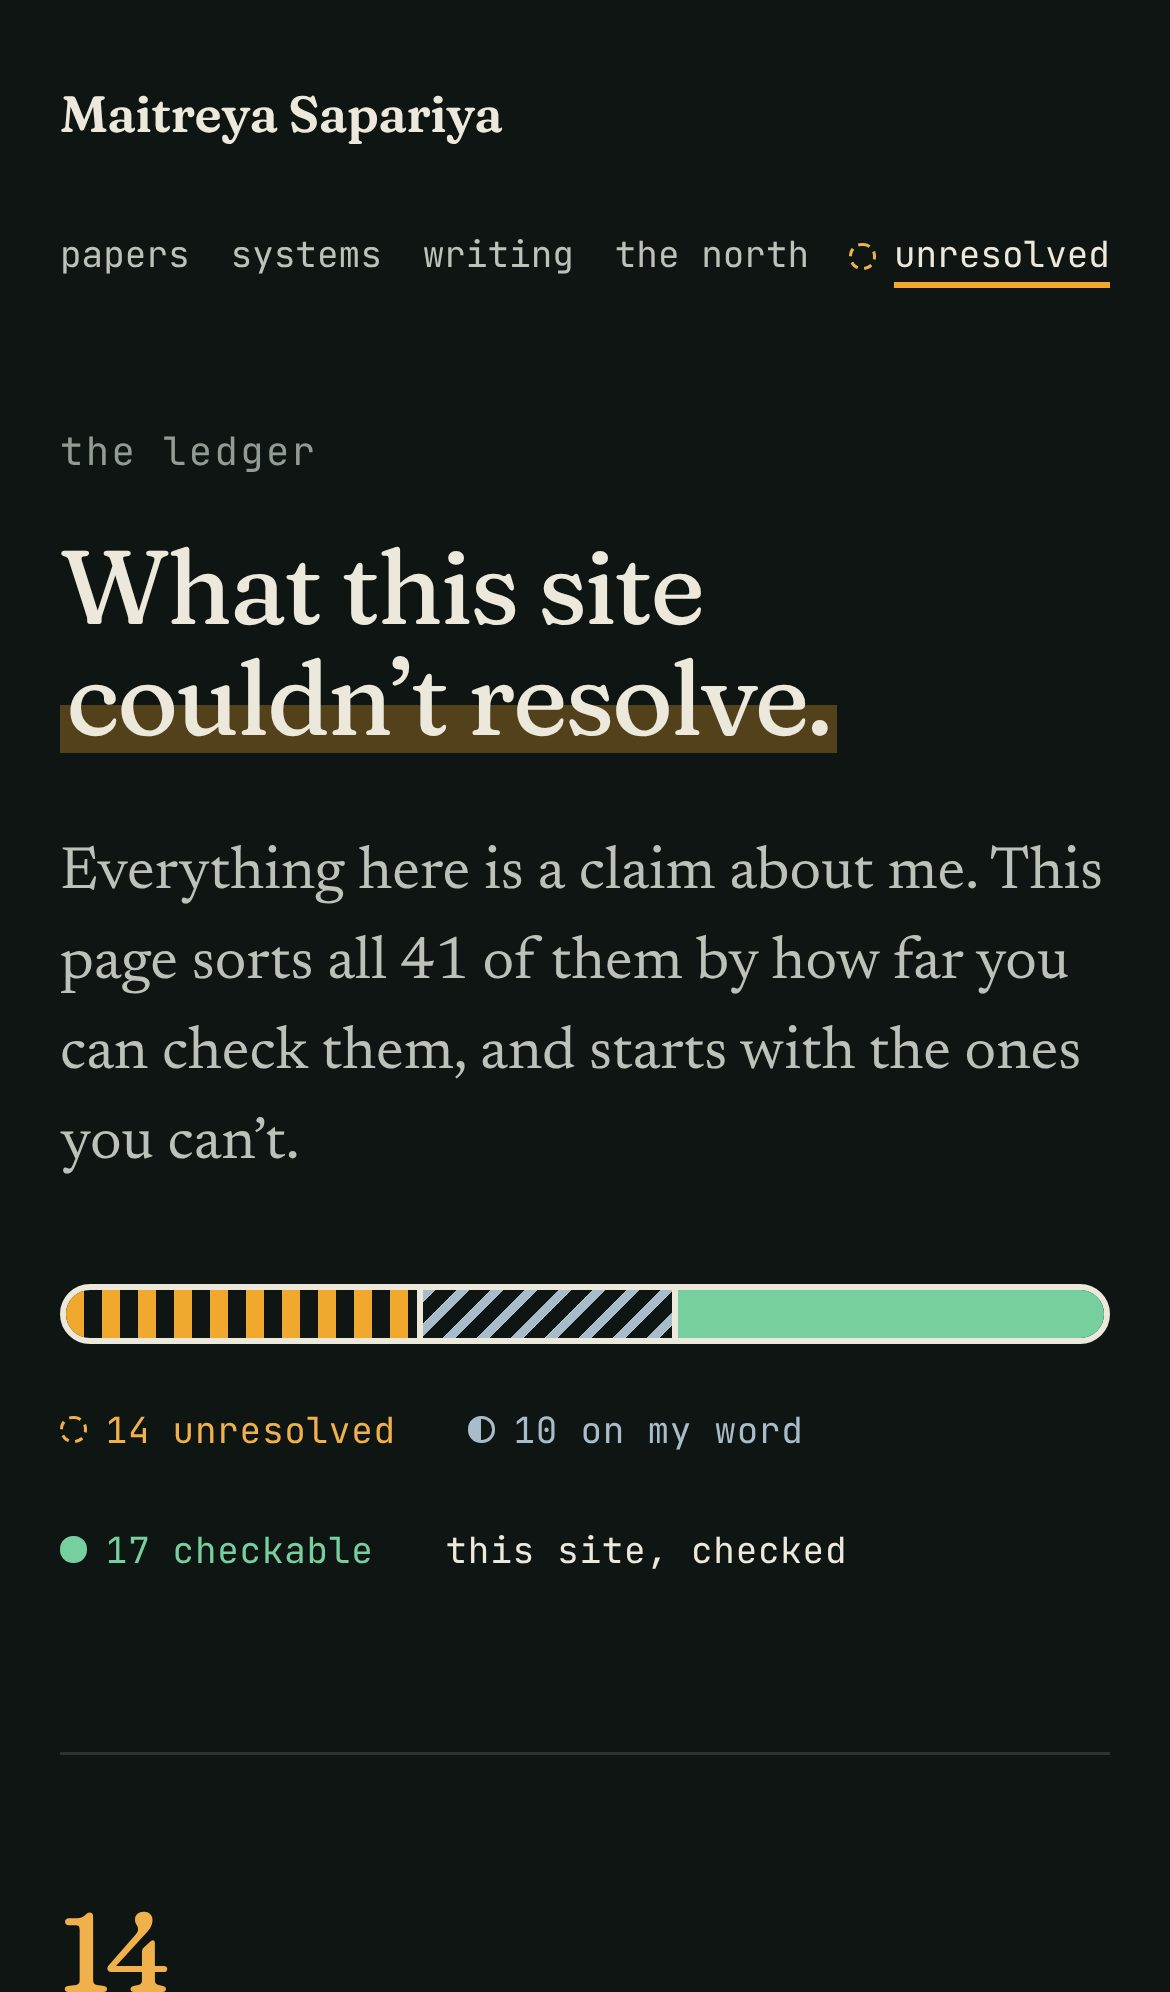
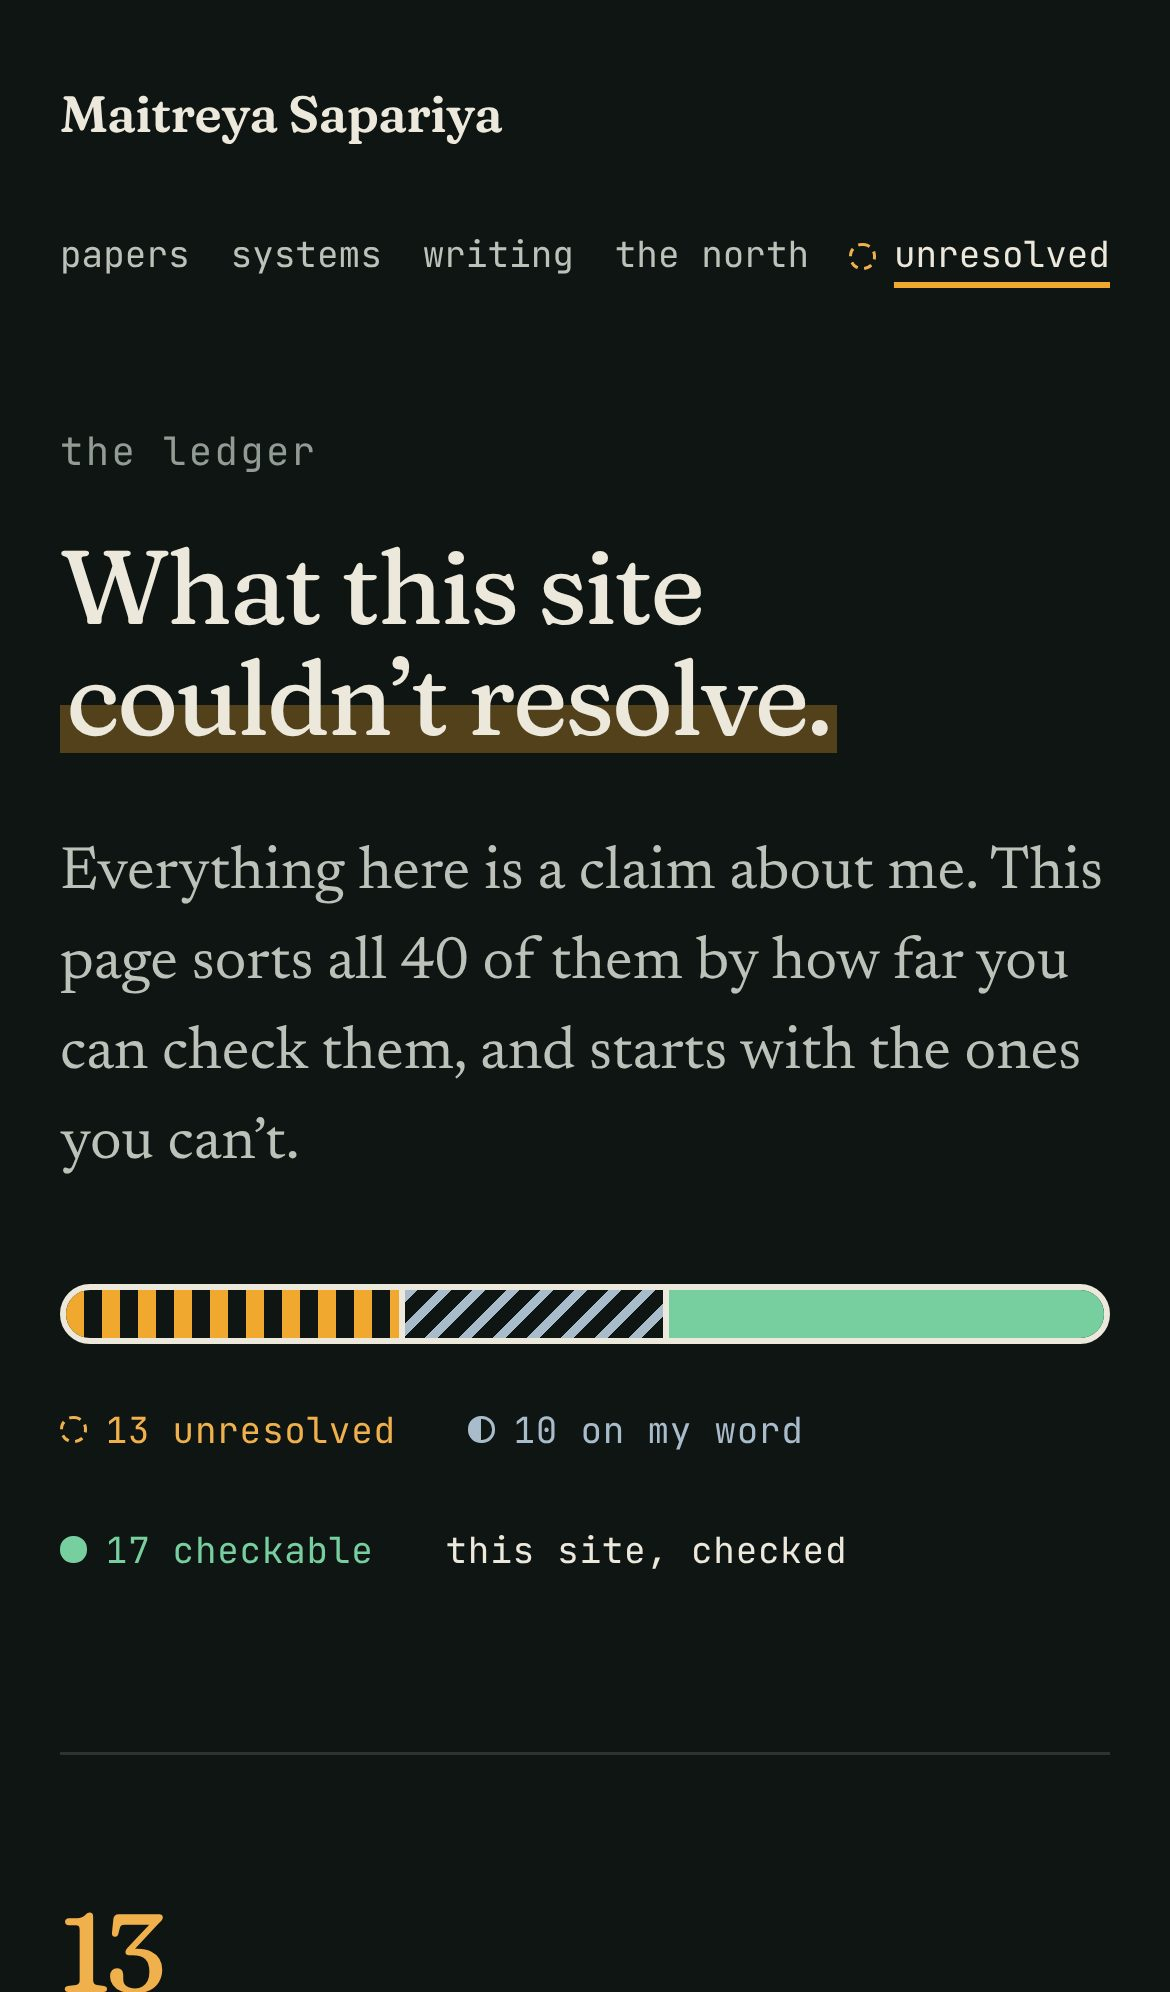
fix(a11y): map markers are not tap targets on a phone; the stop index is
Oslo and Sandefjord, and Helsinki and Tallinn, sit closer together than a
fingertip at phone width. Below 40rem the markers no longer take taps and
the hint points at the stop index, which links to the same places in
full-width rows. Lighthouse accessibility on /travel goes from 96 to 100.
The item leaves the unresolved list; notes and screenshots follow.

Claude-Session: https://claude.ai/code/session_01Stmo8Lh2Jpa6mqPBLQ4AAC

Changed region(s): [[0.3385, 0.6225, 0.5846, 0.6847], [0.0923, 0.9649, 0.1538, 1.0], [0.3692, 0.4669, 0.4, 0.498]]

diff --git a/src/ledger.ts b/src/ledger.ts
@@ -76,14 +76,6 @@ const siteItems = (): LedgerItem[] => {
       group: 'site',
     },
     {
-      claim: 'Tap targets on the map, on a phone.',
-      state: 'open',
-      note: 'At phone width some stops on the map sit closer together than a 24 pixel tap target allows (Oslo and Sandefjord, Helsinki and Tallinn). The stop index beside the map and the field log under it reach every stop.',
-      source: { label: 'The north', href: '/travel' },
-      links: [],
-      group: 'site',
-    },
-    {
       claim: 'The margin the coin-flip demo uses.',
       state: 'open',
       note: 'The 0.487 against 0.499 case is real. The margin drawn in the demo is a stand-in so the slider has somewhere to go; the paper fixes its own.',

diff --git a/src/styles/travel.css b/src/styles/travel.css
@@ -769,3 +769,25 @@
     to { opacity: 1; }
   }
 }
+
+/* On a phone the stops sit closer together than a fingertip: Oslo and
+   Sandefjord, Helsinki and Tallinn. The markers stop being tap targets
+   there. The stop index under the map, one full-width row per stop, links
+   to the same places, and the keyboard still reaches every marker. */
+.atlas-hint-touch {
+  display: none;
+}
+
+@media (max-width: 40rem) {
+  .plate-stops .stop {
+    pointer-events: none;
+  }
+
+  .atlas-hint-pointer {
+    display: none;
+  }
+
+  .atlas-hint-touch {
+    display: block;
+  }
+}

diff --git a/FABLE_NOTES.md b/FABLE_NOTES.md
@@ -300,9 +300,11 @@ Two things I assumed, which you should check:
 - **Ten type errors on `main`**, all in the travel map's inline script.
   `astro check` now reports none.
 - **Tap targets on the map at phone width.** Oslo and Sandefjord, and
-  Helsinki and Tallinn, sit closer than 24 px. This is on `main` too. I did
-  not fix it. It is listed on `/unresolved`, and Lighthouse scores `/travel`
-  96 for accessibility because of it.
+  Helsinki and Tallinn, sit closer than a fingertip. This is on `main` too,
+  and Lighthouse scored `/travel` 96 for accessibility because of it. On a
+  phone the markers are no longer tap targets; the stop index under the map
+  (one full-width row per stop) links to the same places. `/travel` now
+  scores 100.
 
 ---
 
@@ -313,7 +315,7 @@ Two things I assumed, which you should check:
 | `npm run build` | 19 pages |
 | `npx astro check` | 0 errors (needs `@astrojs/check` and `typescript`, which I installed without saving) |
 | `npm run audit` (axe-core 4.14.1) | 18 pages × light and dark × 1280 px and 390 px: **0 violations** |
-| Scripted Tab pass | reached 492 of 492 links and controls |
+| Scripted Tab pass | reached 491 of 491 links and controls |
 | `npm run contrast` | every text colour ≥ 4.5:1 on both papers, both themes |
 | Demo, by keyboard | amber up to 0.098, red from 0.100; Home, End and the three buttons work |
 | Scripts off | slider hidden, real case shown, theme switch hidden |
@@ -326,7 +328,7 @@ the same way to compare:
 | --- | --- | --- | --- | --- |
 | `/` | 98 → 97 | 100 | 100 | 100 |
 | `/research/three-voices` | 100 → 99 | 100 | 100 | 100 |
-| `/travel` | 97 → 97 | 96 (same as main) | 100 | 100 |
+| `/travel` | 97 → 96 | 96 → 100 | 100 | 100 |
 | `/unresolved` | new: 100 | 100 | 100 | 100 |
 
 My first pass scored 82 on the home page. A single rupee sign was pulling in
@@ -357,8 +359,8 @@ a second 103 KB font file, and the stylesheet was a blocking request.
    It is careful (pages are always fetched fresh when you are online), but a
    service worker is the one piece that outlives a deploy. The comment at
    the top of `src/pages/sw.js.ts` says how to switch it off.
-4. **The count on the home page.** "14 are unresolved" is the hook. Three of
-   the fourteen are about the site itself, not about you. If that feels like
+4. **The count on the home page.** "13 are unresolved" is the hook. Two of
+   the thirteen are about the site itself, not about you. If that feels like
    padding, move them out of `siteItems()` in `src/ledger.ts`.
 5. **`CLAUDE.md`.** I added a six-line note at the top and changed nothing
    else. If you keep this branch, the design law, the checklist and the
@@ -382,8 +384,6 @@ a second 103 KB font file, and the stylesheet was a blocking request.
   kind of thing a professor checks.
 - **Give each claim a date.** "As of 12 November" beside every status, from
   git history, so staleness is visible per line.
-- **Fix the map's tap targets** at phone width, probably by turning close
-  pairs into one target that opens a short list.
 - **Test in Firefox and Safari** and on a slow phone.
 - **A second plain-language post**, for *Prediction is not selection*. It is
   the paper with the best story (the nine-hour rule, the cold re-run on a
